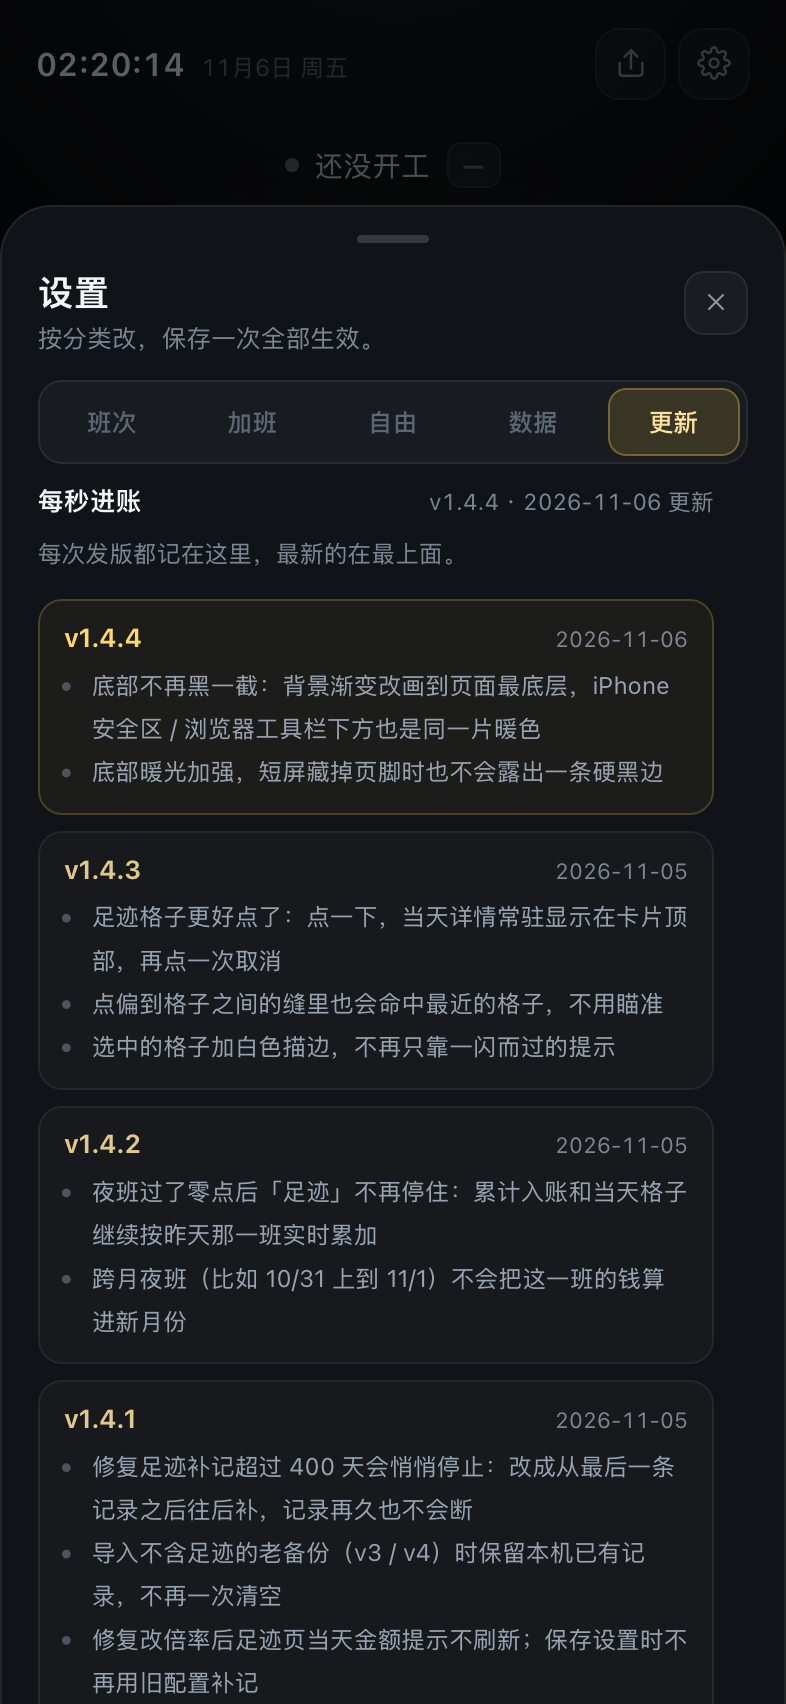
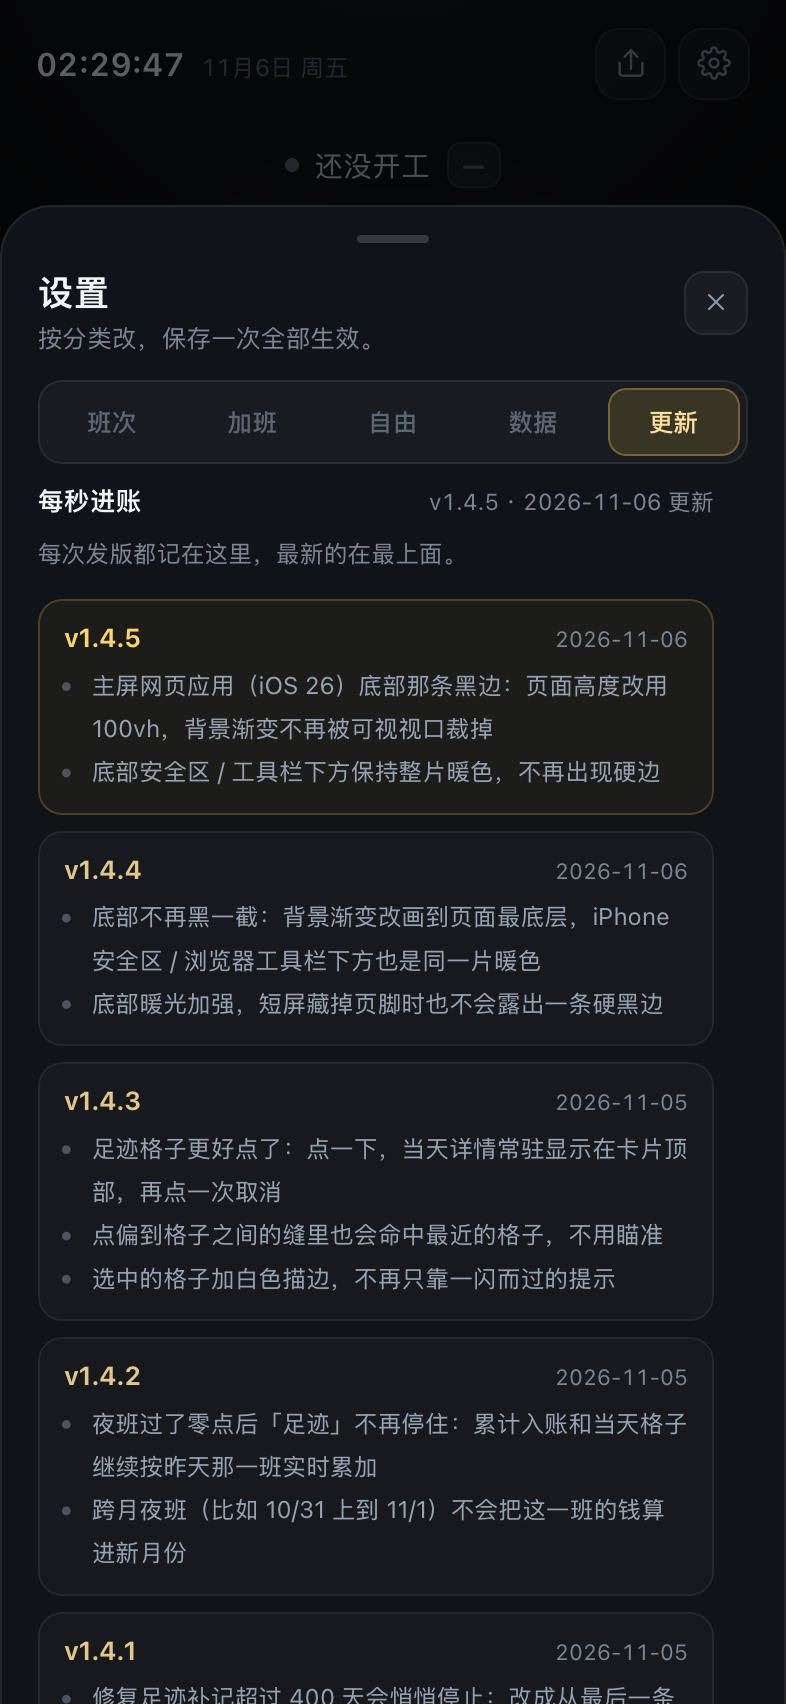
fix: size the root background to the screen, not the iOS 26 standalone visual viewport (v1.4.5)

diff --git a/index.html b/index.html
@@ -31,7 +31,9 @@
   }
   *{box-sizing:border-box;-webkit-tap-highlight-color:transparent}
   html{
-    height:100%;overflow:hidden;
+    /* 用 100vh 而不是 100%：iOS 26 里 100%/100dvh 可能按可视视口（少一截）算，
+       会把背景渐变裁在下面，露出一条底色黑边 */
+    height:100vh;height:var(--bg-h,100vh);overflow:hidden;
     /* 背景画在 html 上：iOS 工具栏 / 安全区露出来的地方也是同一片渐变，不会出现黑边 */
     background:
       radial-gradient(145% 58% at 50% 101%,rgba(247,201,72,.26) 0%,rgba(247,201,72,.085) 42%,rgba(8,9,11,0) 80%),
@@ -1193,8 +1195,12 @@
   }
 
   // 当前版本 + 更新日志（发版时改这里，设置面板直接渲染）
-  var APP_VERSION = "1.4.4";
+  var APP_VERSION = "1.4.5";
   var CHANGELOG = [
+    { version: "1.4.5", date: "2026-11-06", items: [
+      "主屏网页应用（iOS 26）底部那条黑边：页面高度改用 100vh，背景渐变不再被可视视口裁掉",
+      "底部安全区 / 工具栏下方保持整片暖色，不再出现硬边"
+    ] },
     { version: "1.4.4", date: "2026-11-06", items: [
       "底部不再黑一截：背景渐变改画到页面最底层，iPhone 安全区 / 浏览器工具栏下方也是同一片暖色",
       "底部暖光加强，短屏藏掉页脚时也不会露出一条硬黑边"
@@ -3765,6 +3771,13 @@
       var vv = window.visualViewport;
       var h = (vv && vv.height) || window.innerHeight || 0;
       if (h > 300) document.documentElement.style.setProperty("--vh100", h + "px");
+      // 背景要铺满整块屏幕：iOS 26 主屏网页应用的视觉视口会比屏幕矮一截（约 59pt），
+      // 只按它铺会在底部露出底色黑边；这里取 innerHeight / screen.height 的较大值。
+      var bgH = Math.max(h, window.innerHeight || 0);
+      var standalone = navigator.standalone === true ||
+        (window.matchMedia && window.matchMedia("(display-mode: standalone)").matches);
+      if (standalone && window.screen && window.screen.height) bgH = Math.max(bgH, window.screen.height);
+      if (bgH > 300) document.documentElement.style.setProperty("--bg-h", bgH + "px");
       requestAnimationFrame(updateAppOverflow);
     }
     update();

diff --git a/sw.js b/sw.js
@@ -8,7 +8,7 @@
  * 导航策略：网络优先（900ms 超时），失败回退干净缓存，再失败给友好离线页。
  * 这样新版能立刻生效，慢网/断网也不会白屏。
  */
-const VERSION = "1.4.4";
+const VERSION = "1.4.5";
 const CACHE = "money-meter-" + VERSION;
 const CORE = [
   "./index.html",

diff --git a/README.zh.md b/README.zh.md
@@ -286,7 +286,7 @@
 
 ## 版本与更新
 
-- 当前版本 **v1.4.4**（2026-11-06）
+- 当前版本 **v1.4.5**（2026-11-06）
 - 设置分成「班次 / 加班 / 自由 / 数据 / 更新」五类；更新日志在「更新」页，有版本号、更新时间、每个版本改了什么
 - 有新版本时点设置会直接打开「更新」页，右上角齿轮也会亮一个小圆点；看过一次就不再提示
 - 屏幕够高时主界面底部也会显示版本号（矮屏收在设置 → 更新里）
